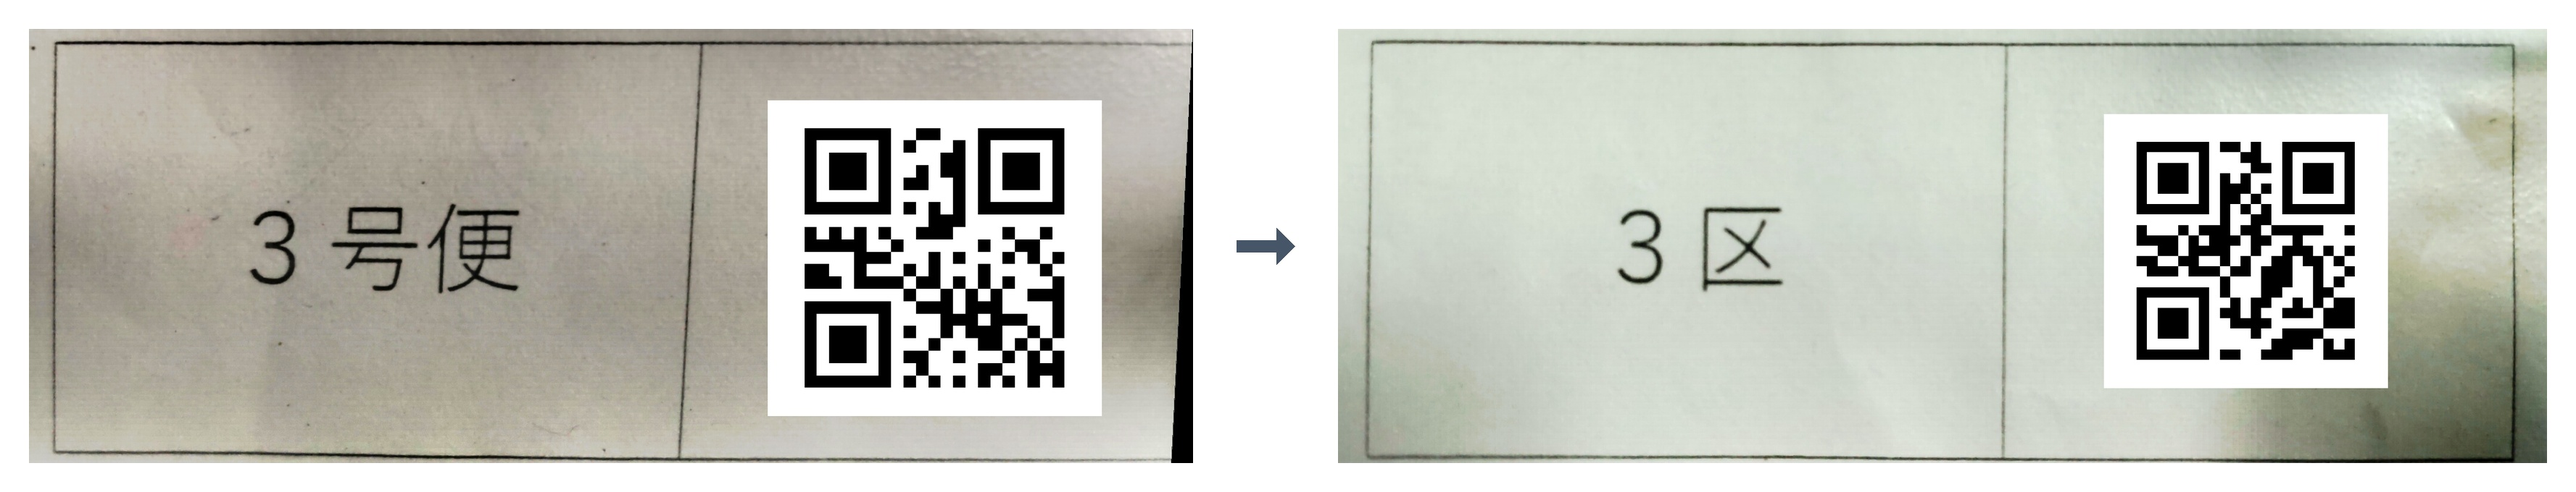
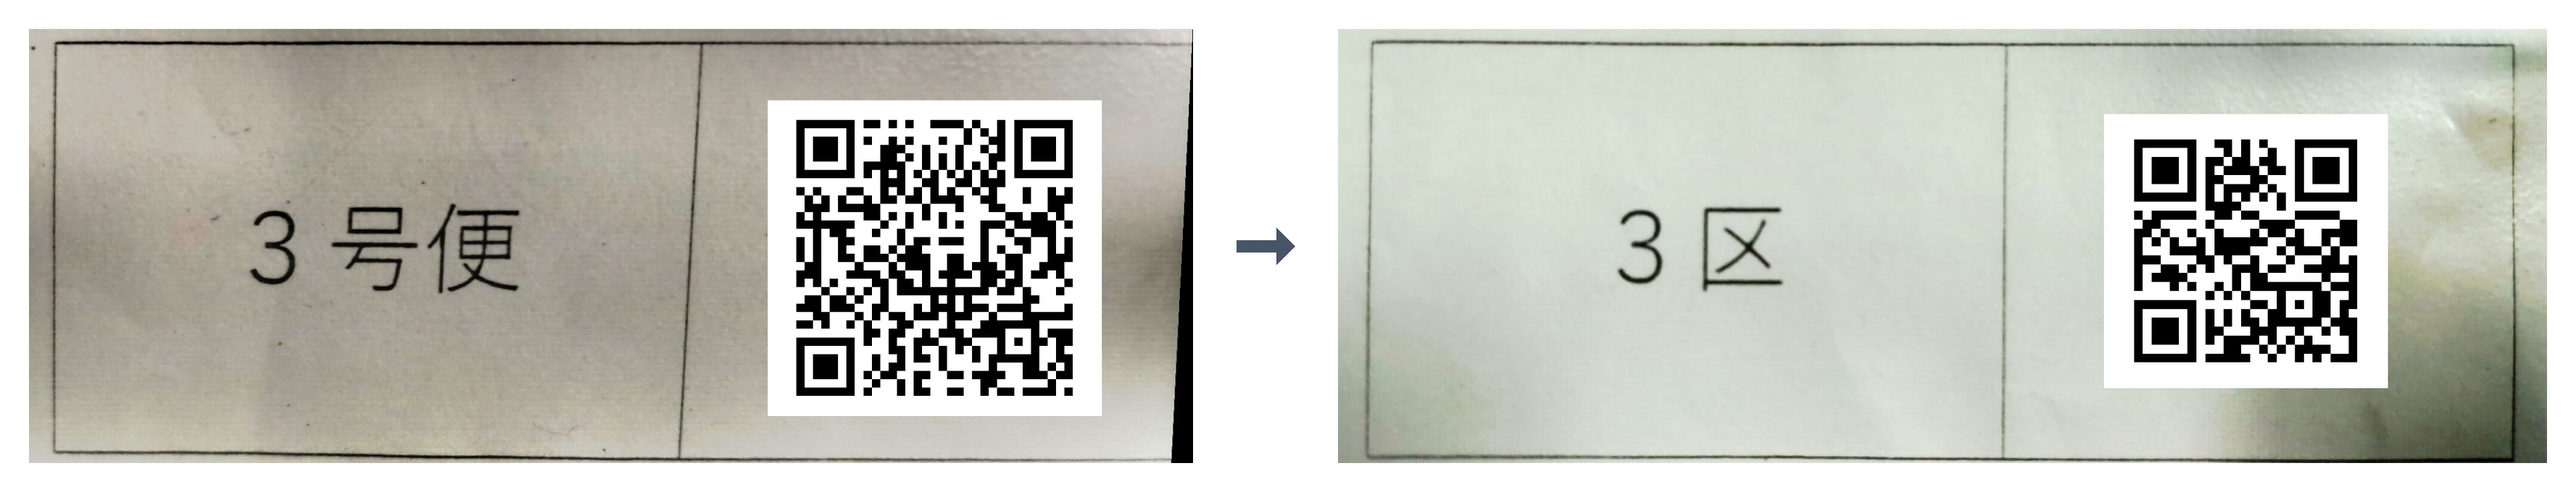
fix: 郵便局正式規格のShift-JIS運行開始QRコード文字列（2号便・3号便・4号便/特便・3区）へ完全準拠修正

Changed region(s): [[0.2811, 0.2162, 0.4373, 0.8029], [0.812, 0.2779, 0.937, 0.7412]]

diff --git a/src/components/RouteQRModal.tsx b/src/components/RouteQRModal.tsx
@@ -16,6 +16,8 @@ import {
 } from 'lucide-react';
 import { RouteShift, WARD_ROUTES } from '@/data/routes';
 
+import Encoding from 'encoding-japanese';
+
 interface RouteQRModalProps {
   isOpen: boolean;
   ward: number;
@@ -53,9 +55,10 @@ export default function RouteQRModal({
   useEffect(() => {
     if (typeof window !== 'undefined') {
       try {
-        // 旧バージョンの誤ったキャッシュ(BIN:01等)をクリア
+        // 旧バージョンの誤ったキャッシュをクリア
         localStorage.removeItem('postcp_route_qrs');
-        const saved = localStorage.getItem('postcp_route_qrs_v2');
+        localStorage.removeItem('postcp_route_qrs_v2');
+        const saved = localStorage.getItem('postcp_route_qrs_v3');
         if (saved) {
           setCustomQrStrings(JSON.parse(saved));
         }
@@ -67,9 +70,9 @@ export default function RouteQRModal({
 
   // 現在の便・区のQR文字列
   const currentBinData =
-    customQrStrings[currentShift?.id]?.bin || currentShift?.binQrData || '2号便';
+    customQrStrings[currentShift?.id]?.bin || currentShift?.binQrData || 'BIN:01;D01:01;S01:01;B01:02;N01:平日取集２号便;';
   const currentWardData =
-    customQrStrings[currentShift?.id]?.ward || currentShift?.wardQrData || '3区';
+    customQrStrings[currentShift?.id]?.ward || currentShift?.wardQrData || 'DIV:01;C01:003;N01:3区;';
 
   // 編集フィールドの同期
   useEffect(() => {
@@ -78,13 +81,26 @@ export default function RouteQRModal({
     setZoomTarget(null);
   }, [selectedShiftId, currentBinData, currentWardData]);
 
-  // QRコードSVGの生成
+  // QRコードSVGの生成（日本の郵便端末標準であるShift-JISバイナリでエンコード）
   useEffect(() => {
     if (!currentShift) return;
 
+    // Shift-JISバイナリ変換ヘルパー
+    const toSjisSegments = (text: string) => {
+      try {
+        const sjisArray = Encoding.convert(Encoding.stringToCode(text), {
+          to: 'SJIS',
+          from: 'UNICODE',
+        });
+        return [{ data: new Uint8Array(sjisArray), mode: 'byte' as const }];
+      } catch (e) {
+        return text;
+      }
+    };
+
     // 便名QR
     QRCode.toString(
-      currentBinData,
+      toSjisSegments(currentBinData) as any,
       {
         type: 'svg',
         margin: 2,
@@ -98,7 +114,7 @@ export default function RouteQRModal({
 
     // 区名QR
     QRCode.toString(
-      currentWardData,
+      toSjisSegments(currentWardData) as any,
       {
         type: 'svg',
         margin: 2,
@@ -123,7 +139,7 @@ export default function RouteQRModal({
       },
     };
     setCustomQrStrings(next);
-    localStorage.setItem('postcp_route_qrs_v2', JSON.stringify(next));
+    localStorage.setItem('postcp_route_qrs_v3', JSON.stringify(next));
     setIsEditingData(false);
     setSaveToast(true);
     setTimeout(() => setSaveToast(false), 2500);
@@ -134,7 +150,7 @@ export default function RouteQRModal({
     const next = { ...customQrStrings };
     delete next[currentShift.id];
     setCustomQrStrings(next);
-    localStorage.setItem('postcp_route_qrs_v2', JSON.stringify(next));
+    localStorage.setItem('postcp_route_qrs_v3', JSON.stringify(next));
     setEditBinStr(currentShift.binQrData);
     setEditWardStr(currentShift.wardQrData);
     setIsEditingData(false);
@@ -305,8 +321,8 @@ export default function RouteQRModal({
                       dangerouslySetInnerHTML={{ __html: binSvg }}
                     />
 
-                    <div className="mt-2.5 text-[11px] text-slate-500 font-mono font-medium truncate max-w-full">
-                      コード: <span className="font-bold text-slate-800">{currentBinData}</span>
+                    <div className="mt-2 text-[10px] text-slate-500 font-mono font-medium break-all max-w-full leading-tight">
+                      コード: <span className="font-bold text-slate-800 select-all">{currentBinData}</span>
                     </div>
                   </div>
 
@@ -338,8 +354,8 @@ export default function RouteQRModal({
                       dangerouslySetInnerHTML={{ __html: wardSvg }}
                     />
 
-                    <div className="mt-2.5 text-[11px] text-slate-500 font-mono font-medium truncate max-w-full">
-                      コード: <span className="font-bold text-slate-800">{currentWardData}</span>
+                    <div className="mt-2 text-[10px] text-slate-500 font-mono font-medium break-all max-w-full leading-tight">
+                      コード: <span className="font-bold text-slate-800 select-all">{currentWardData}</span>
                     </div>
                   </div>
                 </div>

diff --git a/src/data/routes.ts b/src/data/routes.ts
@@ -21,7 +21,7 @@ export const WARD_ROUTES: Record<number, WardRoutes> = {
   3: {
     ward: 3,
     wardName: '3区',
-    defaultWardQrData: 'DIV:03',
+    defaultWardQrData: 'DIV:01;C01:003;N01:3区;',
     bannerImage: '/images/routes/weekday_all_3ku.jpg',
     weekday: [
       {
@@ -31,8 +31,8 @@ export const WARD_ROUTES: Record<number, WardRoutes> = {
         description: '午前収集（全28箇所）',
         qrImage: '/images/routes/weekday_bin2_3ku.jpg',
         badgeColor: 'bg-blue-600 text-white',
-        binQrData: 'BIN:02',
-        wardQrData: 'DIV:03',
+        binQrData: 'BIN:01;D01:01;S01:01;B01:02;N01:平日取集２号便;',
+        wardQrData: 'DIV:01;C01:003;N01:3区;',
       },
       {
         id: 'bin3',
@@ -41,8 +41,8 @@ export const WARD_ROUTES: Record<number, WardRoutes> = {
         description: '午後収集（全28箇所）',
         qrImage: '/images/routes/weekday_bin3_3ku.jpg',
         badgeColor: 'bg-emerald-600 text-white',
-        binQrData: 'BIN:03',
-        wardQrData: 'DIV:03',
+        binQrData: 'BIN:01;D01:01;S01:01;B01:03;N01:平日取集３号便;',
+        wardQrData: 'DIV:01;C01:003;N01:3区;',
       },
       {
         id: 'special',
@@ -51,8 +51,8 @@ export const WARD_ROUTES: Record<number, WardRoutes> = {
         description: '夕方主要局収集（4箇所のみ）',
         qrImage: '/images/routes/weekday_special_3ku.jpg',
         badgeColor: 'bg-amber-600 text-white',
-        binQrData: 'BIN:04',
-        wardQrData: 'DIV:03',
+        binQrData: 'BIN:01;D01:01;S01:01;B01:04;N01:平日取集４号便;',
+        wardQrData: 'DIV:01;C01:003;N01:3区;',
       },
     ],
   },

diff --git a/src/lib/offline-manager.ts b/src/lib/offline-manager.ts
@@ -3,7 +3,7 @@
 import { useEffect, useState } from 'react';
 import { PostItem } from '@/types/post';
 
-const CACHE_NAME = 'postcp-cache-v5';
+const CACHE_NAME = 'postcp-cache-v6';
 
 export function registerServiceWorker() {
   if (typeof window !== 'undefined' && 'serviceWorker' in navigator) {

diff --git a/public/sw.js b/public/sw.js
@@ -1,5 +1,5 @@
 // PostCP Service Worker - オフライン対応キャッシュ
-const CACHE_NAME = 'postcp-cache-v5';
+const CACHE_NAME = 'postcp-cache-v6';
 
 // 必須キャッシュリスト
 const STATIC_ASSETS = [
